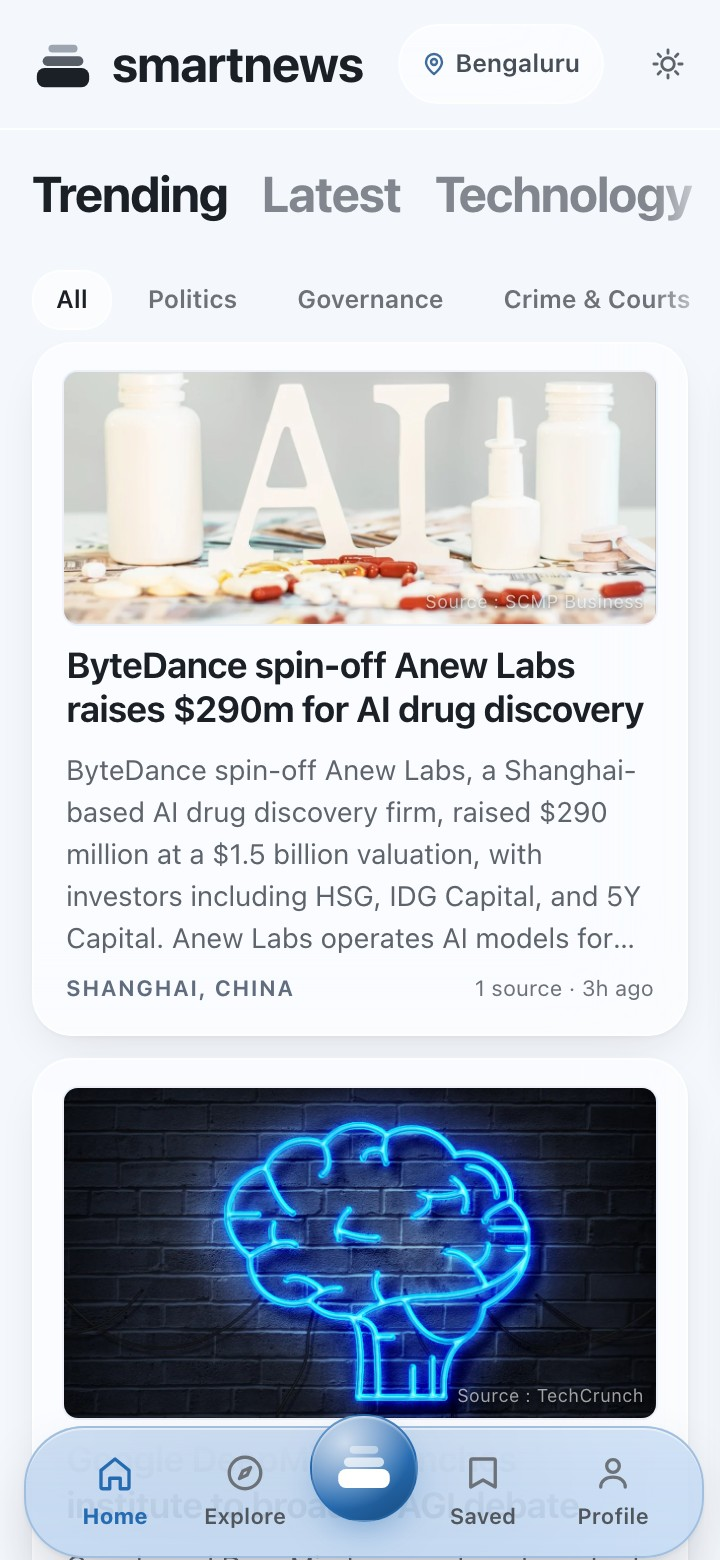
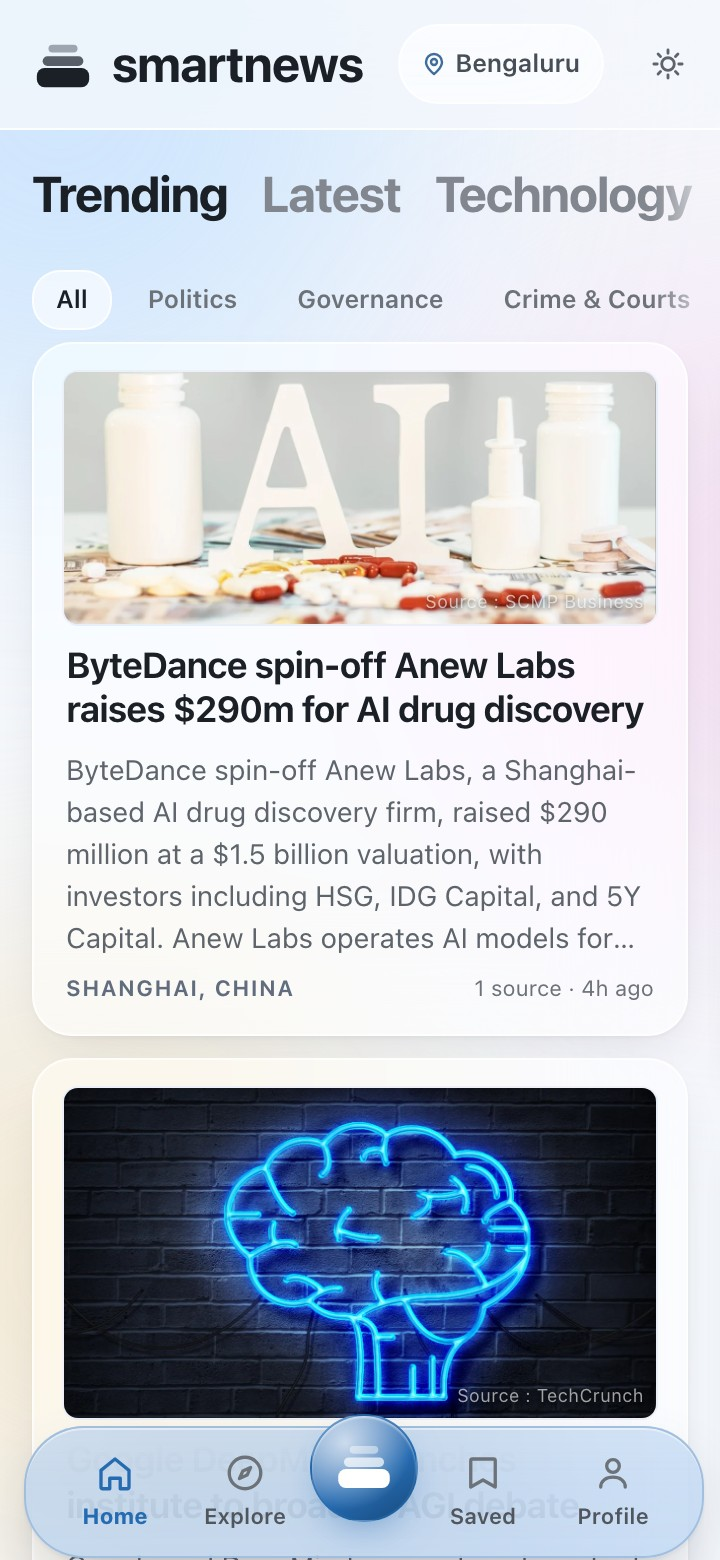
docs(readme): reshoot the shots against the nav and theme the app actually has
Every image predated the header nav and the dark default, so the page was
advertising a bottom bar on desktop and a Pastel light feed as the first thing
a reader sees. Neither is true any more.

Reshot all of them from the running app: dark Frosted on a phone leads, the
four themes that still ship sit together below it, and the desktop pair closes
the section — one variable, the mode, changing across it. Ambient and Marigold
are gone because the themes are gone; Northlight had never been shown at all.

Images are all <img> tags now rather than half of them markdown, and the
category shots are dropped instead of being reshot: the strip they existed to
show is already visible in every feed shot.

Changed region(s): [[0.0, 0.0615, 0.4278, 0.2462], [0.0, 0.6462, 0.1222, 0.9538], [0.7944, 0.6154, 0.825, 0.6462]]

diff --git a/README.md b/README.md
@@ -12,42 +12,37 @@ The npm package and the deployed Worker are both named `smartnews`; the repo is 
 
 ## What it looks like
 
-Shown in the Pastel theme, where each card takes a quiet tint from its category.
-Five others ship with it; three of them are below, and the picker is under
-Profile.
+Dark is the default and a phone is where news is read, so this is where most
+readers meet it: the Frosted theme, after dark.
 
-<img src="docs/screenshots/mobile-home.jpg" alt="The feed on a phone, in the Pastel theme" width="300">
+<img src="docs/screenshots/mobile-dark-home.jpg" alt="The feed on a phone, in the Frosted theme after dark" width="300">
 
-A phone is where news is read, so it is the size the design is drawn at and the
-one these shots lead with. The bar sits at the bottom at every width — thumb
-first, and unchanged on a desktop rather than relegated to a corner — and the
-category strip is one horizontal row that holds the selected category against
-the left edge.
+A phone is the size the design is drawn at. The bar sits at the bottom, thumb
+first, and the category strip is one horizontal row that holds the selected
+category against the left edge.
 
-The same screen with room to spread out:
+### The four themes, on a phone
 
-![The feed on a desktop, in the Pastel theme](docs/screenshots/desktop-home.jpg)
+| Frosted — the default | Pastel | Broadsheet | Northlight |
+|---|---|---|---|
+| <img src="docs/screenshots/mobile-frost.jpg" alt="The feed on a phone, in the Frosted theme" width="200"> | <img src="docs/screenshots/mobile-pastel.jpg" alt="The feed on a phone, in the Pastel theme" width="200"> | <img src="docs/screenshots/mobile-broadsheet.jpg" alt="The feed on a phone, in the Broadsheet theme" width="200"> | <img src="docs/screenshots/mobile-northlight.jpg" alt="The feed on a phone, in the Northlight theme" width="200"> |
+| White glass over a soft wash. | The same glass, each card tinted by its category. | Paper, serif headlines and hairlines instead of cards. | Cold daylight. Flat surfaces, one petrol accent, serif headlines. |
 
-### The others
+Frosted is the shipped design and the other three were drawn beside it on the
+same canvas, carrying its geometry with their own colour and type. Each reads
+both ways: every theme has a dark palette of its own rather than one grey laid
+over the set. Theme and mode are both kept per device, not in the account, and
+both are set under Profile.
 
-| Frosted — the default | Broadsheet |
+### The same screen, with room to spread out
+
+| After dark | In the light |
 |---|---|
-| <img src="docs/screenshots/mobile-frost.jpg" alt="The feed on a phone, in the Frosted theme" width="260"> | <img src="docs/screenshots/mobile-broadsheet.jpg" alt="The feed on a phone, in the Broadsheet theme" width="260"> |
-| White glass over a soft wash. | Paper, serif headlines, hairlines instead of cards. |
+| <img src="docs/screenshots/desktop-dark-home.jpg" alt="The feed on a desktop, in the Frosted theme after dark" width="440"> | <img src="docs/screenshots/desktop-light-home.jpg" alt="The feed on a desktop, in the Frosted theme in the light" width="440"> |
 
-Frosted is the shipped design; Broadsheet was drawn beside it on the same
-canvas and carries its geometry with its own colour and type. The choice is
-kept per device, not in the account.
-
-### In the dark
-
-<img src="docs/screenshots/mobile-dark-home.jpg" alt="The feed on a phone, in the Frosted theme in dark mode" width="300">
-
-Every theme reads both ways, each with a dark palette of its own rather than
-one grey laid over the set; Frosted is the one shown here. Dark is the default
-— light, and following the device, are choices made from the toggle in the
-header or the three-way control under Profile — and is kept per device like the
-theme.
+At desktop width the bar leaves the bottom for the header and the categories
+unfold down the left edge, but the cards keep the proportions they were drawn
+at rather than stretching to the window.
 
 ## Requirements
 
